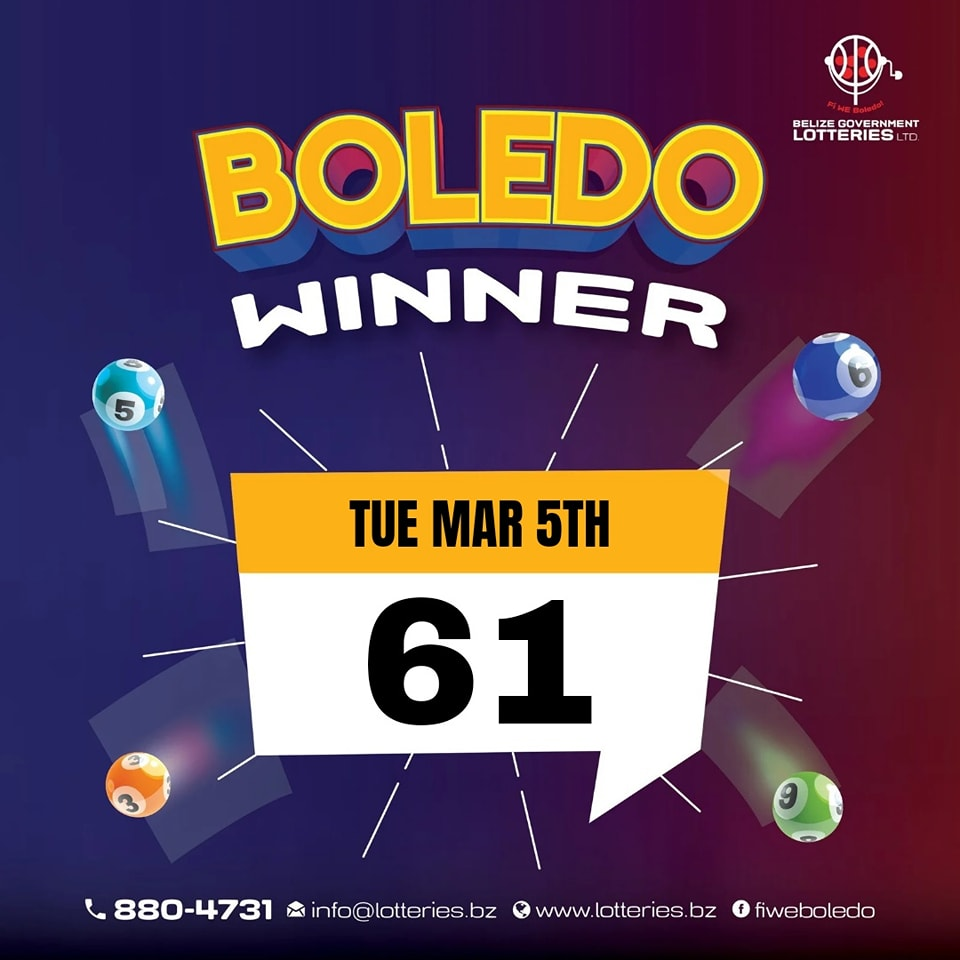
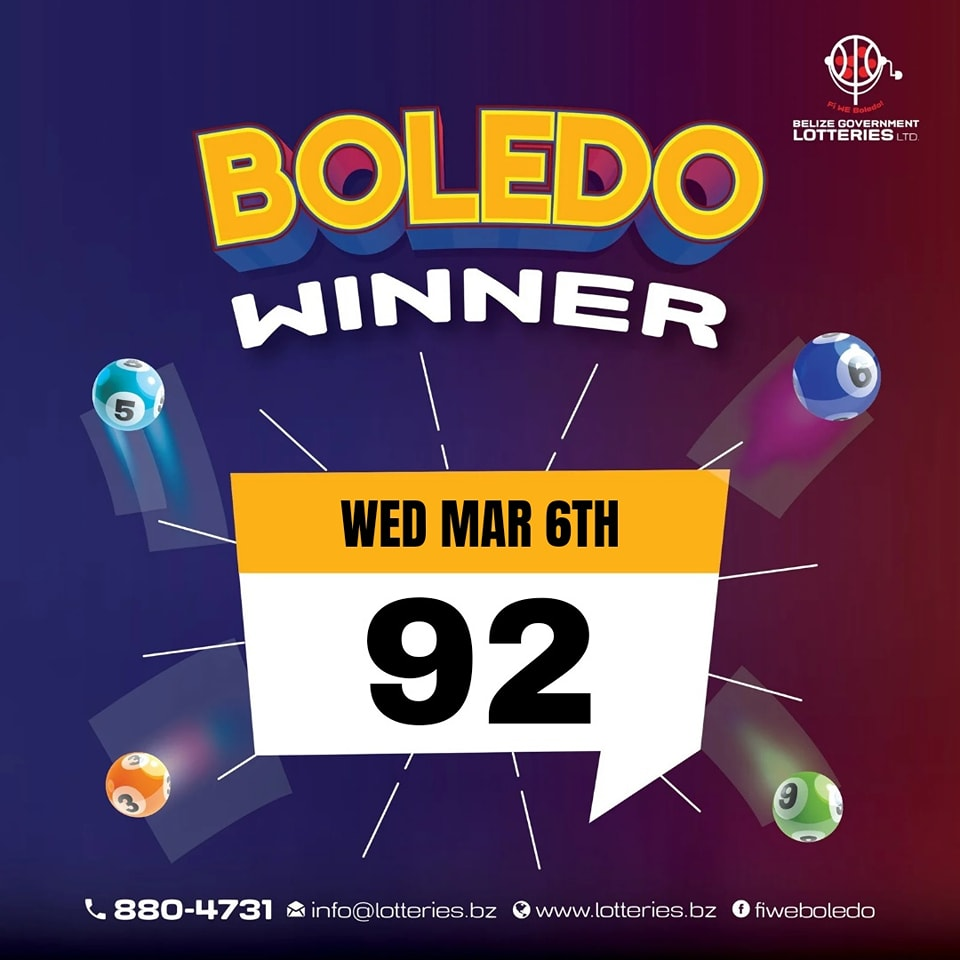
Updated Winning Number

Changed region(s): [[0.3438, 0.5, 0.6562, 0.5938], [0.375, 0.625, 0.625, 0.75]]

diff --git a/winningNumbers.js b/winningNumbers.js
@@ -63,7 +63,7 @@ var boledoDatabase = {
     "01/03/2024": '59',
     "04/03/2024": '78',
     "05/03/2024": '61',
-
+    "06/03/2024": '92',
 }
 
 var ordinaryLotteryDatabase = {
